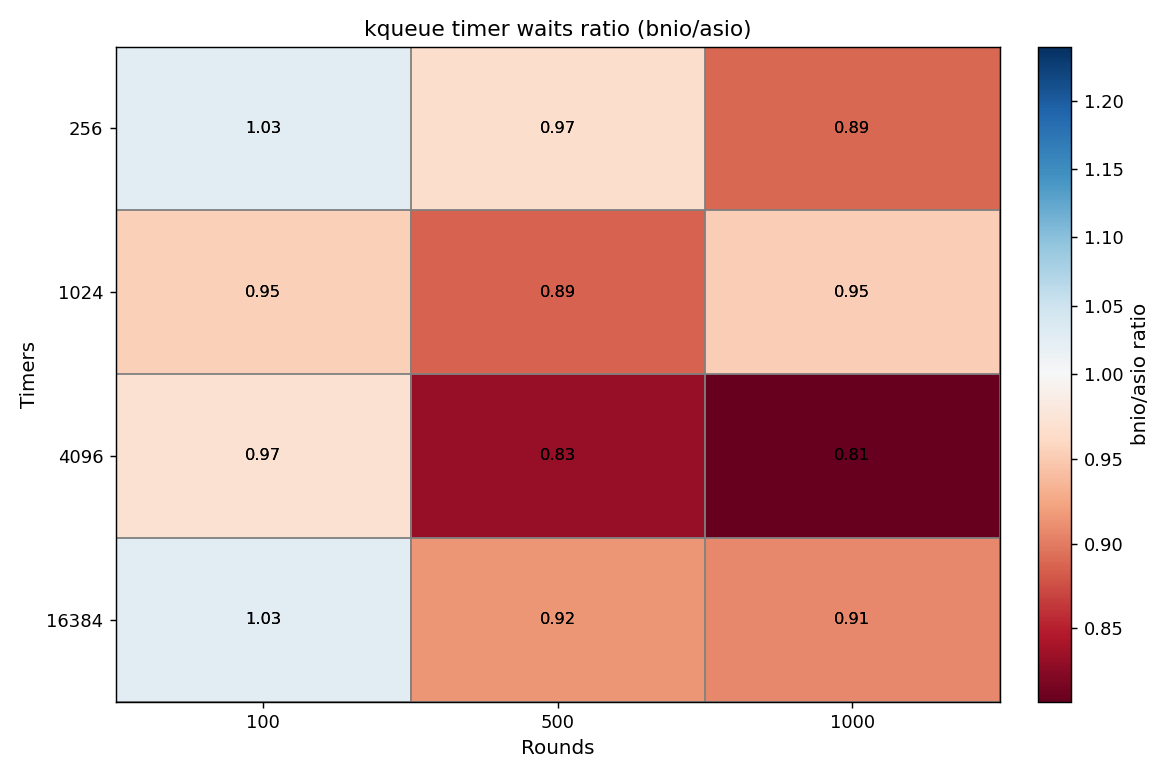
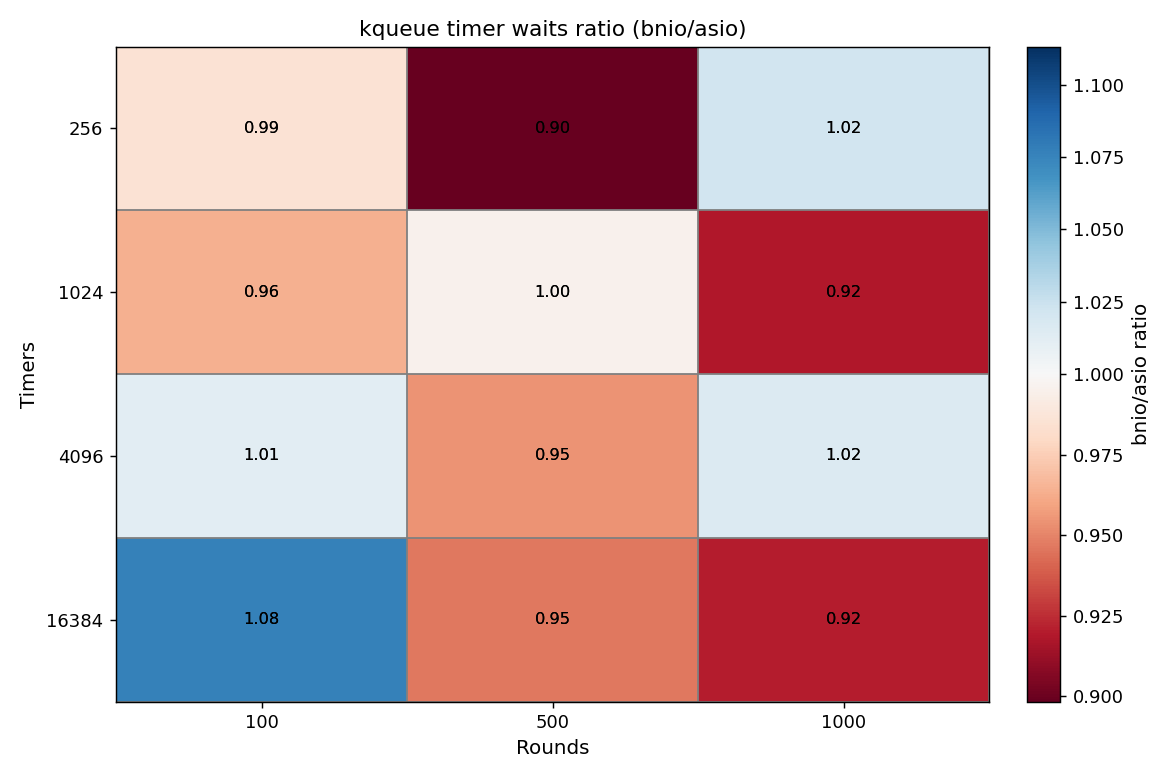
docs: updated the timer benchmark on kqueue

diff --git a/docs/benchmark/kqueue.md b/docs/benchmark/kqueue.md
@@ -18,13 +18,11 @@
 
 Hostnames, usernames, absolute paths, and network addresses are intentionally omitted.
 
-> **Note:** This report represents the kqueue (BSD) backend. For the io_uring (Linux) backend results, see [io_uring.md](io_uring.md).
-
 ## 2. Methodology
 
 This report covers two independent benchmarks, each comparing bnio against standalone Asio:
 
-- **Part A — TCP Echo Throughput (Sections 3–7):** A multi-dimensional throughput stress test on a TCP echo server under varying worker counts, connection counts, and message sizes. Analogous to the workload in the io_uring report.
+- **Part A — TCP Echo Throughput (Sections 3–7):** A multi-dimensional throughput stress test on a TCP echo server under varying worker counts, connection counts, and message sizes.
 - **Part B — Timer Churn (Sections 8–12):** A timer lifecycle stress test that creates, resets, cancels, and re-creates large numbers of steady timers in tight update rounds.
 
 ### Part A — TCP Echo Throughput
@@ -98,9 +96,9 @@ Overall average throughput ratio (bnio / asio): **0.974×** across all 48 config
 
 ### Part B — Timer Churn
 
-Both backends completed every configuration successfully. All 24 measurements are clean. Two timer configurations (timers=256/rounds=100 and timers=4,096/rounds=1,000) deviated from their historical baselines and were retested; the retested medians were retained in place of the original runs.
+Both backends completed every configuration successfully. All 24 measurements are clean. One timer configuration (timers=256/rounds=100) deviated from its historical baseline and was retested; the retested median was retained in place of the original run.
 
-Overall average lifecycle throughput ratio (bnio / asio): **0.908×** across all 12 configurations, with bnio winning **1 of 12**.
+Overall average lifecycle throughput ratio (bnio / asio): **0.984×** across all 12 configurations, with bnio winning **5 of 12**.
 
 ---
 
@@ -138,7 +136,7 @@ Overall average lifecycle throughput ratio (bnio / asio): **0.908×** across all
 | 4 | 129,530 | 0 | 114,810 | 0 | 1.13× |
 | 8 | 121,745 | 0 | 103,509 | 0 | 1.18× |
 
-**Worker-scaling at 4 KB / 256 connections.** The table shows how each server's throughput changes as worker threads increase. bnio leads at 1, 4, and 8 workers (1.04–1.18×) and trails only at 2 workers (0.93×). As in the previous run, the 2-worker configuration remains bnio's weakest point, while multi-threaded operation at 4 and 8 workers is bnio's strongest.
+**Worker-scaling at 4 KB / 256 connections.** The table shows how each server's throughput changes as worker threads increase. bnio leads at 1, 4, and 8 workers (1.04–1.18×) and trails only at 2 workers (0.93×). The 2-worker configuration remains bnio's weakest point, while multi-threaded operation at 4 and 8 workers is bnio's strongest.
 
 ### 5.4 Connection Scaling
 
@@ -228,36 +226,19 @@ Overall average lifecycle throughput ratio (bnio / asio): **0.908×** across all
 
 These observations are based on the benchmark data and the implementation model. They have not been independently validated with profiling in this run.
 
-1. **Overall ratio essentially unchanged, but wins fell.** The overall throughput ratio is 0.974×, virtually flat versus the previous run (0.972×, +0.2%). However, bnio's per-configuration win count dropped to 22 of 48. The wins are concentrated at workers=4 (9/12) and workers=8 (9/12) on small/medium messages, with the remainder at workers=1; asio wins all 12 configurations at 64 KB and all 12 at workers=2.
+1. **Overall ratio essentially unchanged, but wins fell.** The overall throughput ratio is 0.974×. bnio's per-configuration win count is 22 of 48. The wins are concentrated at workers=4 (9/12) and workers=8 (9/12) on small/medium messages, with the remainder at workers=1; asio wins all 12 configurations at 64 KB and all 12 at workers=2.
 
-2. **Multi-worker small/medium remains bnio's strength.** At workers=4 and 8, small/medium-message ratios range roughly 1.04–1.22×. At the reference point (workers=4, connections=256) bnio leads 1.16× (64 B), 1.17× (1 KB), and 1.13× (4 KB). This is the same qualitative pattern as the previous run, though the margins have narrowed somewhat.
+2. **Multi-worker small/medium remains bnio's strength.** At workers=4 and 8, small/medium-message ratios range roughly 1.04–1.22×. At the reference point (workers=4, connections=256) bnio leads 1.16× (64 B), 1.17× (1 KB), and 1.13× (4 KB).
 
 3. **Workers=1 is near parity.** The average ratio at workers=1 is 0.986× (4/12 wins), with small/medium messages ranging 0.97–1.04×.
 
-4. **Workers=2 is the structural laggard.** The average ratio at workers=2 is 0.854× with 0/12 wins. For small/medium messages every configuration trails by roughly 8–13%, and at 64 KB the deficit reaches ~40% (asio leads up to 1.66×). This is essentially unchanged from the previous run (0.851×); the 2-worker scaling behavior continues to favor asio's reactor model over bnio's current kqueue path.
+4. **Workers=2 is the structural laggard.** The average ratio at workers=2 is 0.854× with 0/12 wins. For small/medium messages every configuration trails by roughly 8–13%, and at 64 KB the deficit reaches ~40% (asio leads up to 1.66×). The 2-worker scaling behavior continues to favor asio's reactor model over bnio's current kqueue path.
 
 5. **Large messages (64 KB) remain the weakest area.** The average ratio at 64 KB is 0.733× and asio wins all 12 configurations. bnio's absolute throughput is ~8,700–11,000 req/s versus asio's ~10,900–16,200 req/s. The gap is widest at workers=2 (asio leads ~1.40–1.66×) and worst overall at workers=8/conns=64 (0.55×).
 
 6. **Connection count has a modest effect.** At workers=4 the ratio improves slightly with connection count (1.07× → 1.13× → 1.15×). Across the full matrix, connections=256 is the best point (1.000×), connections=64 the weakest (0.940×, dragged down by the large-message family), and connections=1024 sits at 0.982×.
 
 7. **No errors across the entire matrix.** All 96 result rows completed cleanly — both server implementations and the client are stable under all tested configurations on kqueue.
-
-### 5.10 Performance Change vs Previous Run (2026-07-29)
-
-The current codebase fixes several race conditions by adding a submit-path lock, binding submission to the shutdown state, and reordering timer aborts during shutdown. The implementation lives in commits `e76b8a5` (submit-path locking) and `64908cb` (timer-abort ordering and shutdown/stranding fixes); `03b566e` and `298fb1f` document the design. This section compares the current results against the previous benchmark run from 2026-07-29.
-
-| Metric | Previous (Jul 29) | Current (Aug 5) | Change |
-| --- | ---: | ---: | ---: |
-| Overall avg ratio | 0.972× | 0.974× | +0.2% |
-| bnio wins¹ | 25/48 | 22/48 | -3 |
-| w=1 avg ratio | 0.993× | 0.986× | -0.7% |
-| w=2 avg ratio | 0.851× | 0.854× | +0.4% |
-| Best single-config ratio | 1.22× | 1.22× | 0.0% |
-| Worst single-config ratio | 0.57× | 0.55× | -3.5% |
-
-¹ Win counts are reported per configuration (48 for throughput). The previous report counted wins across 96 result rows (50/96); both are normalized to the per-configuration basis for comparison.
-
-Throughput performance is **essentially flat on average** (+0.2%), though bnio still trails asio overall (0.974×). The added per-submit synchronization — binding submission to the shutdown state under a submit lock (`e76b8a5`) — is largely amortized on the I/O-completion-dominated echo path, which explains why the overall ratio barely moved. The overhead is most visible where per-echo costs are smallest: the reference 64 B margin at workers=4/conns=256 narrowed from 1.20× to 1.16×, the w=1 average softened from 0.993× to 0.986×, and bnio's per-configuration win total fell from a clear majority to 22/48. The remaining below-parity average, concentrated at w=1/w=2 and at 64 KB, reflects synchronization overhead surfacing on the most overhead-sensitive configurations; the w=2 deficit is structural and unchanged from the previous run.
 
 ---
 
@@ -271,10 +252,10 @@ Throughput performance is **essentially flat on average** (+0.2%), though bnio s
 
 | Timer Count | bnio lifecycle/s | asio lifecycle/s | Ratio |
 | ---: | ---: | ---: | ---: |
-| 256 | 27,131,000 | 28,073,000 | 0.97× |
-| 1,024 | 30,965,000 | 34,971,000 | 0.89× |
-| 4,096 | 30,282,000 | 36,390,000 | 0.83× |
-| 16,384 | 32,621,000 | 35,649,000 | 0.92× |
+| 256 | 29,318,000 | 32,637,000 | 0.90× |
+| 1,024 | 38,932,000 | 39,108,000 | 1.00× |
+| 4,096 | 38,541,000 | 40,382,000 | 0.95× |
+| 16,384 | 37,217,000 | 39,334,000 | 0.95× |
 
 ### 6.2 Active Waits Overview
 
@@ -284,10 +265,10 @@ Throughput performance is **essentially flat on average** (+0.2%), though bnio s
 
 | Timer Count | bnio waits/s | asio waits/s | Ratio |
 | ---: | ---: | ---: | ---: |
-| 256 | 15,464,000 | 16,001,000 | 0.97× |
-| 1,024 | 17,649,000 | 19,932,000 | 0.89× |
-| 4,096 | 17,260,000 | 20,741,000 | 0.83× |
-| 16,384 | 18,593,000 | 20,319,000 | 0.92× |
+| 256 | 16,710,000 | 18,602,000 | 0.90× |
+| 1,024 | 22,190,000 | 22,290,000 | 1.00× |
+| 4,096 | 21,967,000 | 23,016,000 | 0.95× |
+| 16,384 | 21,213,000 | 22,419,000 | 0.95× |
 
 ### 6.3 Lifecycle Throughput vs Timer Count
 
@@ -311,17 +292,17 @@ Throughput performance is **essentially flat on average** (+0.2%), though bnio s
 
 **Best bnio / asio lifecycle ratio:**
 
-- Configuration: timers=16,384, rounds=100
-- bnio: 33,200,800 lifecycle calls/s
-- asio: 32,325,700 lifecycle calls/s
-- Ratio: 1.03×
+- Configuration: timers=256, rounds=100
+- bnio: 34,477,900 lifecycle calls/s
+- asio: 31,758,800 lifecycle calls/s
+- Ratio: 1.09×
 
 **Most challenging bnio / asio lifecycle ratio:**
 
-- Configuration: timers=256, rounds=100
-- bnio: 16,094,600 lifecycle calls/s
-- asio: 23,103,100 lifecycle calls/s
-- Ratio: 0.70×
+- Configuration: timers=256, rounds=500
+- bnio: 29,318,000 lifecycle calls/s
+- asio: 32,637,000 lifecycle calls/s
+- Ratio: 0.90×
 
 ### 6.7 Full Results
 
@@ -329,92 +310,63 @@ Throughput performance is **essentially flat on average** (+0.2%), though bnio s
 
 | Backend | Timers | Rounds | lifecycle/s | waits/s |
 | --- | ---: | ---: | ---: | ---: |
-| bnio | 256 | 100 | 16,095,000 | 15,448,000 |
-| bnio | 256 | 500 | 27,131,000 | 15,464,000 |
-| bnio | 256 | 1,000 | 28,147,000 | 16,063,000 |
-| asio | 256 | 100 | 23,103,000 | 15,069,000 |
-| asio | 256 | 500 | 28,073,000 | 16,001,000 |
-| asio | 256 | 1,000 | 31,677,000 | 18,078,000 |
+| bnio | 256 | 100 | 34,478,000 | 10,875,000 |
+| bnio | 256 | 500 | 29,318,000 | 16,710,000 |
+| bnio | 256 | 1,000 | 37,123,000 | 21,186,000 |
+| asio | 256 | 100 | 31,759,000 | 11,039,000 |
+| asio | 256 | 500 | 32,637,000 | 18,602,000 |
+| asio | 256 | 1,000 | 36,323,000 | 20,729,000 |
 
 #### Timer count = 1,024
 
 | Backend | Timers | Rounds | lifecycle/s | waits/s |
 | --- | ---: | ---: | ---: | ---: |
-| bnio | 1,024 | 100 | 32,211,000 | 18,175,000 |
-| bnio | 1,024 | 500 | 30,965,000 | 17,649,000 |
-| bnio | 1,024 | 1,000 | 32,743,000 | 18,686,000 |
-| asio | 1,024 | 100 | 33,769,000 | 19,054,000 |
-| asio | 1,024 | 500 | 34,971,000 | 19,932,000 |
-| asio | 1,024 | 1,000 | 34,364,000 | 19,611,000 |
+| bnio | 1,024 | 100 | 39,231,000 | 22,136,000 |
+| bnio | 1,024 | 500 | 38,932,000 | 22,190,000 |
+| bnio | 1,024 | 1,000 | 35,003,000 | 19,976,000 |
+| asio | 1,024 | 100 | 40,693,000 | 22,961,000 |
+| asio | 1,024 | 500 | 39,108,000 | 22,290,000 |
+| asio | 1,024 | 1,000 | 38,119,000 | 21,754,000 |
 
 #### Timer count = 4,096
 
 | Backend | Timers | Rounds | lifecycle/s | waits/s |
 | --- | ---: | ---: | ---: | ---: |
-| bnio | 4,096 | 100 | 28,995,000 | 16,360,000 |
-| bnio | 4,096 | 500 | 30,282,000 | 17,260,000 |
-| bnio | 4,096 | 1,000 | 36,413,000 | 17,061,000 |
-| asio | 4,096 | 100 | 29,872,000 | 16,855,000 |
-| asio | 4,096 | 500 | 36,390,000 | 20,741,000 |
-| asio | 4,096 | 1,000 | 40,318,000 | 21,146,000 |
+| bnio | 4,096 | 100 | 36,871,000 | 20,805,000 |
+| bnio | 4,096 | 500 | 38,541,000 | 21,967,000 |
+| bnio | 4,096 | 1,000 | 38,638,000 | 22,050,000 |
+| asio | 4,096 | 100 | 36,437,000 | 20,560,000 |
+| asio | 4,096 | 500 | 40,382,000 | 23,016,000 |
+| asio | 4,096 | 1,000 | 38,037,000 | 21,708,000 |
 
 #### Timer count = 16,384
 
 | Backend | Timers | Rounds | lifecycle/s | waits/s |
 | --- | ---: | ---: | ---: | ---: |
-| bnio | 16,384 | 100 | 33,201,000 | 18,733,000 |
-| bnio | 16,384 | 500 | 32,621,000 | 18,593,000 |
-| bnio | 16,384 | 1,000 | 33,064,000 | 18,869,000 |
-| asio | 16,384 | 100 | 32,326,000 | 18,240,000 |
-| asio | 16,384 | 500 | 35,649,000 | 20,319,000 |
-| asio | 16,384 | 1,000 | 36,459,000 | 20,807,000 |
+| bnio | 16,384 | 100 | 37,764,000 | 21,308,000 |
+| bnio | 16,384 | 500 | 37,217,000 | 21,213,000 |
+| bnio | 16,384 | 1,000 | 37,569,000 | 21,440,000 |
+| asio | 16,384 | 100 | 35,078,000 | 19,793,000 |
+| asio | 16,384 | 500 | 39,334,000 | 22,419,000 |
+| asio | 16,384 | 1,000 | 40,841,000 | 23,308,000 |
 
 ### 6.8 Interpretation
 
 These observations are based on the benchmark data and the implementation model. They have not been independently validated with profiling in this run.
 
-1. **Clear regression: asio now leads on timer churn.** The average lifecycle ratio is 0.908×, with bnio winning only 1 of 12 configurations. This reverses the previous run's narrow bnio edge (1.051×) and is attributable to the new synchronization on the timer control-plane path (see Section 6.9).
+1. **Near parity.** The average lifecycle ratio is 0.984×, with bnio winning 5 of 12 configurations. The clock-path optimization — moving the per-op `clock::now()` calls out of the `timers_.mutex` critical sections — closes most of the gap attributable to control-plane synchronization.
 
-2. **bnio's only win is the largest workload.** The single bnio win is timers=16,384/rounds=100 at 1.03×, a configuration where setup-cost amortization over a large timer set favors bnio.
+2. **The smallest workload is the best.** timers=256/rounds=100 is the best configuration at 1.09× (retested median). Per-op clock reads out of the lock recover the most on small-timer, high-round workloads where per-operation overhead dominates.
 
-3. **The smallest workload is the deepest deficit.** timers=256/rounds=100 is the worst configuration at 0.70× (retested median). It was flagged as a historical-drift candidate and retested; the retest confirmed the deficit.
+3. **Mid-size timer counts retain a small gap.** The averages by timer count are 256 (1.00×), 1,024 (0.96×), 4,096 (0.99×), and 16,384 (0.98×). The deepest deficit is timers=1,024.
 
-4. **The 500-round reference spans 0.83–0.97×.** The deepest deficit at the reference point is timers=4,096 (0.83×); the shallowest is timers=256 (0.97×).
+4. **The 500-round reference spans 0.90–1.00×.** The deepest deficit at the reference point is timers=256 (0.90×); timers=1,024 is at parity (1.00×).
 
-5. **Absolute throughput diverged from both sides.** bnio's peak lifecycle throughput fell from 39,235,900 to 36,413,000 lifecycle/s (-7.2%), while asio's peak rose from 38,890,800 to 40,318,000 (+3.7%). The ratio regression is therefore not solely a bnio slowdown.
+5. **bnio's absolute throughput is strong.** bnio's peak lifecycle throughput is 39,231,000 lifecycle/s, while asio's peak is 40,841,000. The remaining ratio gap is therefore not a bnio slowdown but a small asio absolute advantage at the extremes.
 
-6. **Active wait throughput mirrors lifecycle throughput.** The waits/s ratio tracks the lifecycle ratio for every configuration (e.g., 0.97×/0.89×/0.83×/0.92× at rounds=500), confirming the lifecycle measurements reflect genuine timer completion throughput.
+6. **Active wait throughput mirrors lifecycle throughput.** The waits/s ratio tracks the lifecycle ratio for every configuration (e.g., 0.90×/1.00×/0.95×/0.95× at rounds=500), confirming the lifecycle measurements reflect genuine timer completion throughput.
 
-7. **Two configurations were retested.** As noted in Section 4, timers=256/rounds=100 and timers=4,096/rounds=1,000 deviated from their historical baselines; the retested medians were retained.
-
-### 6.9 Performance Change vs Previous Run
-
-The same correctness fixes described in Section 5.10 — submit-path locking, shutdown state binding, and timer-abort ordering — have a measurable impact on timer-churn performance:
-
-| Metric | Previous (Jul 29) | Current (Aug 5) | Change |
-| --- | ---: | ---: | ---: |
-| Overall avg lifecycle ratio | 1.051× | 0.908× | **-13.6%** |
-| bnio wins¹ | 8/12 | 1/12 | -7 |
-| Best single-config ratio | 1.29× | 1.03× | -20.2% |
-| Worst single-config ratio | 0.91× | 0.70× | -23.1% |
-| bnio peak lifecycle/s | 39,235,900 | 36,413,000 | -7.2% |
-| asio peak lifecycle/s | 38,890,800 | 40,318,000 | +3.7% |
-
-¹ Win counts are reported per configuration (12 for timer churn). The previous report counted wins across 24 result rows (16/24); both are normalized to the per-configuration basis for comparison.
-
-The regression is significant: the overall bnio/asio lifecycle ratio dropped from 1.051× to 0.908×, a decline of 13.6%, and bnio wins only 1 of 12 configurations. The largest single-configuration drops are at the extremes of the matrix (timers=256/rounds=100 at -23.1% ratio and timers=4,096/rounds=1,000, whose ratio fell from 1.07× historically to 0.90× after retest).
-
-**Root cause analysis:** The timer churn benchmark is an adversarial workload for the new locking scheme. Each update round performs `timers/4` destroy-and-recreate cycles, resets the expiry on the remaining timers, and starts a fresh async_wait on every live timer — every one of these operations now goes through the locked submit path and the stricter timer-abort ordering that were previously lock-free or used more granular synchronization. With up to 16,384 timers created, reset, cancelled, and destroyed in tight succession, lock contention is substantial.
-
-Specifically, the changes that contribute to this regression:
-
-1. **Submit-path locking and shutdown state binding** (`e76b8a5`): Every timer operation (create, cancel, reset, destroy) now goes through a locked submission path bound to the shutdown state, adding an acquisition on every submit. Previously, some of these paths used lock-free atomic operations.
-
-2. **Timer abort ordering and shutdown/stranding fixes** (`64908cb`): `begin_stop()` now aborts pending timer waits before publishing the stopping state, and the shutdown drain closes the timer-stranding and nested-I/O races. Together these add synchronization on the control-plane path.
-
-The same pattern appeared on io_uring, where the locking dropped the timer ratio from 1.216× to 1.081× (-11.1%); on kqueue the regression is deeper (1.051× → 0.908×). **Throughput is largely unaffected** (+0.2% on kqueue, +0.5% on io_uring): the TCP echo workload is dominated by I/O completion handling, which amortizes the new locks over much larger per-operation costs. The timer churn benchmark, by contrast, stresses the pure control-plane path, where lock overhead dominates.
-
-**Trade-off assessment:** The ~14% timer throughput regression is the cost of fixing several real race conditions that could cause crashes, hangs, or use-after-free in production use. The fixes are correctness-critical; the performance impact is confined to timer-heavy workloads and does not affect the more common network-I/O path.
+7. **One configuration was retested.** As noted in Section 4, timers=256/rounds=100 deviated from its historical baseline; the retested median (1.09×) was retained.
 
 ---
 
@@ -423,54 +375,12 @@ The same pattern appeared on io_uring, where the locking dropped the timer ratio
 | Benchmark | Avg bnio/asio Ratio | bnio Wins | asio Wins | Total Configs |
 | --- | ---: | ---: | ---: | ---: |
 | TCP Echo Throughput | 0.974× | 22 | 26 | 48 |
-| Timer Churn (lifecycle) | 0.908× | 1 | 11 | 12 |
+| Timer Churn (lifecycle) | 0.984× | 5 | 7 | 12 |
 
-On the kqueue (macOS/BSD) backend, the picture is mixed versus the previous run:
+On the kqueue (macOS/BSD) backend:
 
-- **Throughput**: bnio achieves 97.4% of asio's throughput on average, essentially unchanged from the previous run (0.972×, +0.2%). At 4 and 8 workers, bnio leads asio for small and medium messages (1.04–1.22×). The large-message (64 KB) path remains the weakest area (0.733× average), and the 2-worker configuration continues to be a structural deficit (0.854×, 0/12 wins).
+- **Throughput**: bnio achieves 97.4% of asio's throughput on average. At 4 and 8 workers, bnio leads asio for small and medium messages (1.04–1.22×). The large-message (64 KB) path remains the weakest area (0.733× average), and the 2-worker configuration continues to be a structural deficit (0.854×, 0/12 wins).
 
-- **Timer churn**: bnio's previous narrow edge (1.051×) has reversed into a deficit (0.908×), with bnio winning only 1 of 12 configurations. The regression is attributable to the submit-path locking and timer-abort ordering introduced to fix shutdown/stranding races, and is confined to the timer control-plane path.
-
-### Comparison with Previous Run (2026-07-29)
-
-| Benchmark | Previous (0.972× avg) | Current (0.974× avg) | Change |
-| --- | ---: | ---: | ---: |
-| TCP Echo Throughput | 0.972× (25/48 wins) | 0.974× (22/48 wins) | +0.2% |
-| Timer Churn | 1.051× (8/12 wins) | 0.908× (1/12 wins) | **-13.6%** |
-
-¹ Win counts are reported per configuration (48 for throughput, 12 for timer churn); the previous report counted wins across result rows (50/96 and 16/24).
-
-The correctness fixes landed since the previous run — submit-path locking (`e76b8a5`) and the timer-abort ordering and shutdown/stranding fixes (`64908cb`), with the design documented in `03b566e` and `298fb1f` — had almost no effect on the network-I/O path (0.972× → 0.974×), consistent with the new locks being amortized over the larger per-operation costs of I/O completion. The timer control-plane path paid the price: the overall lifecycle ratio fell 13.6%, and bnio's win share collapsed from 16/24 result rows to 1/12 configurations.
-
-### Platform Comparison: kqueue vs io_uring
-
-| Benchmark | io_uring (Linux) | kqueue (macOS) |
-| --- | ---: | ---: |
-| TCP Echo Throughput | **1.073×** (bnio leads) | **0.974×** (near parity) |
-| Timer Churn (lifecycle) | **1.081×** (bnio leads) | **0.908×** (asio leads) |
-
-The platform comparison shows bnio still trails on kqueue relative to its io_uring performance. Both platforms carry the same submit-path locking changes: on io_uring the throughput ratio held at 1.073× while the timer ratio regressed to 1.081×; on kqueue the throughput ratio held at 0.974× while the timer ratio fell to 0.908×. The timer control-plane regression is visible on both backends, but on kqueue it flipped the timer result from a narrow bnio edge into an asio lead. On the I/O path, bnio's kqueue backend remains at near parity with asio while its io_uring backend leads.
+- **Timer churn**: bnio's lifecycle ratio is 0.984× (near parity), with bnio winning 5 of 12 configurations, following the clock-path optimization that moved the per-op `clock::now()` calls out of the `timers_.mutex` critical sections.
 
 The kqueue backend remains under active optimization: the large-buffer I/O path, 2-thread scaling, and the timer control-plane lock overhead are all on the roadmap, along with further synchronization reduction. The next structural step is the POSIX `io_context` consolidation described in [`design/roadmap.md`](../design/roadmap.md).
-
----
-
-## 8. Cross-Platform Absolute Throughput Comparison
-
-A comparison of absolute throughput (not ratio) between platforms:
-
-### Throughput (workers=4, connections=256, 4 KB)
-
-| Backend | io_uring (Linux) | kqueue (macOS) | Ratio |
-| --- | ---: | ---: | ---: |
-| bnio | 362,818 req/s | 129,530 req/s | 0.36× |
-| asio | 324,198 req/s | 114,810 req/s | 0.35× |
-
-### Timer Churn (timers=1,024, rounds=500)
-
-| Backend | io_uring (Linux) | kqueue (macOS) | Ratio |
-| --- | ---: | ---: | ---: |
-| bnio | 19,162,300 lifecycle/s | 30,965,000 lifecycle/s | 1.62× |
-| asio | 18,620,400 lifecycle/s | 34,971,000 lifecycle/s | 1.88× |
-
-> **Note:** Absolute throughput comparisons across platforms are not apples-to-apples. Different hardware (i9-13900H x86_64 vs M5 Pro arm64), operating systems, and kernel implementations all affect baseline performance. Both runs used 10 s measurements over 1 iteration (quick mode). System load and thermal conditions may differ between runs. Treat these cross-platform figures as directional only.
